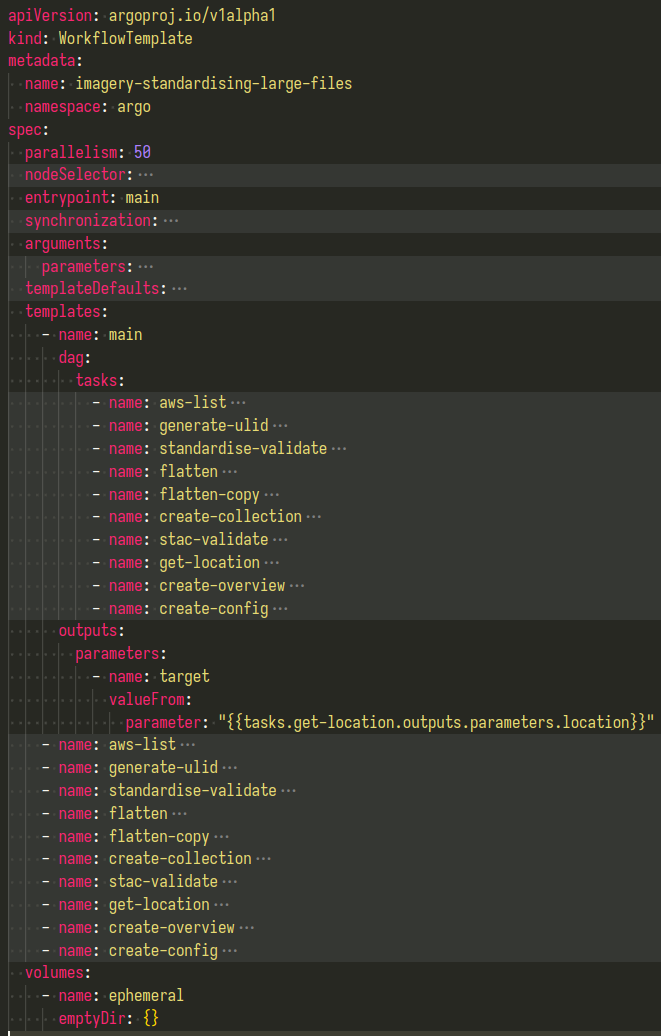
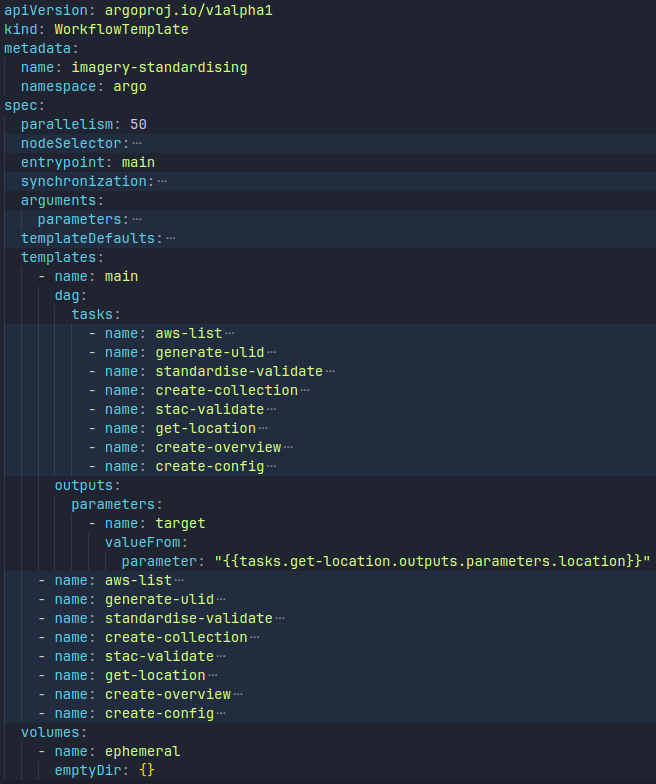
docs: update related to new standardising workflow

Changed region(s): [[0.0, 0.0, 1.0, 1.0]]

diff --git a/workflows/imagery/README.md b/workflows/imagery/README.md
@@ -95,14 +95,12 @@ uri: https://basemaps.linz.govt.nz?config=...
 ```mermaid
 graph TD;
     generate-ulid-->standardise-validate;
+    get-location-->standardise-validate;
     aws-list-->standardise-validate;
-    standardise-validate-->flatten;
-    get-location-->flatten;
-    flatten-->flatten-copy;
-    flatten-copy-->create-collection;
-    get-location-->create-collection;
-    get-location-->create-config;
+    standardise-validate-->create-collection;
+    standardise-validate-->create-overview;
     create-collection-->stac-validate;
+    create-overview-->create-config;
 ```
 
 ### [generate-ulid](./standardising.yaml)
@@ -144,17 +142,11 @@ This step runs the following non-visual QA checks.
 Generates STAC item JSON file associated with the TIFF.
 NB: currently only core STAC metadata is created: start-datetime, end-datetime, geometry and bbox (22/11/2022)
 
+> **_NOTE:_** The output files (`tiffs` and STAC metadata) are moved to a target directory `flat` within the workflow artifact bucket.
+
 ### [get-location](./standardising.yaml)
 
 Finds the output location of this workflow within the artifacts bucket.
-
-### [flatten](https://github.com/linz/argo-tasks/blob/master/src/commands/create-manifest/)
-
-Creates a manifest list of the tiff and item files to copy.
-
-### [flatten-copy](https://github.com/linz/argo-tasks/tree/master/src/commands/copy/)
-
-Copies all the files listed in the manifest to a directory named /flat/
 
 ### [create-collection](https://github.com/linz/topo-imagery/blob/master/scripts/collection_from_items.py)
 

diff --git a/docs/training_workshop/ARGO_WORKFLOWS.md b/docs/training_workshop/ARGO_WORKFLOWS.md
@@ -569,6 +569,7 @@ General structure (YAML):
 ![Standardising Workflow Structure - YAML](images/standardising_structure.png)
 
 Compare the structure shown above with the Argo Workflows UI view:
+(TODO: Update screenshot with `standardising` workflow using `topo-imagery` `v2`)
 
 ![Standardising Workflow Structure - GUI](images/standardising_argo_ui.png)
 
